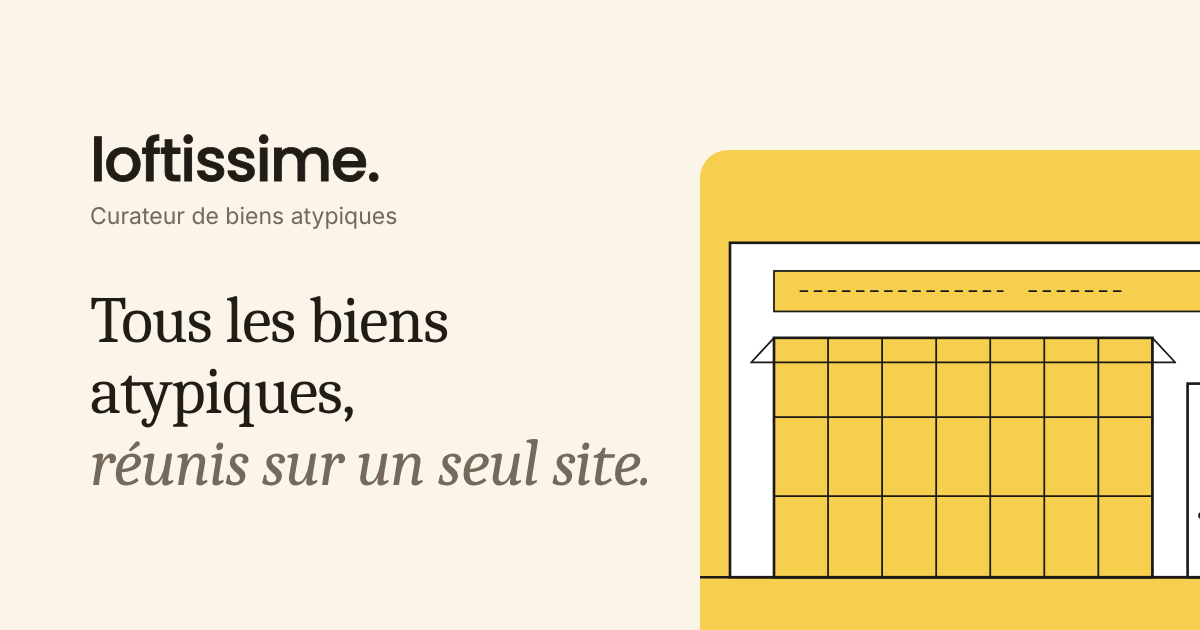
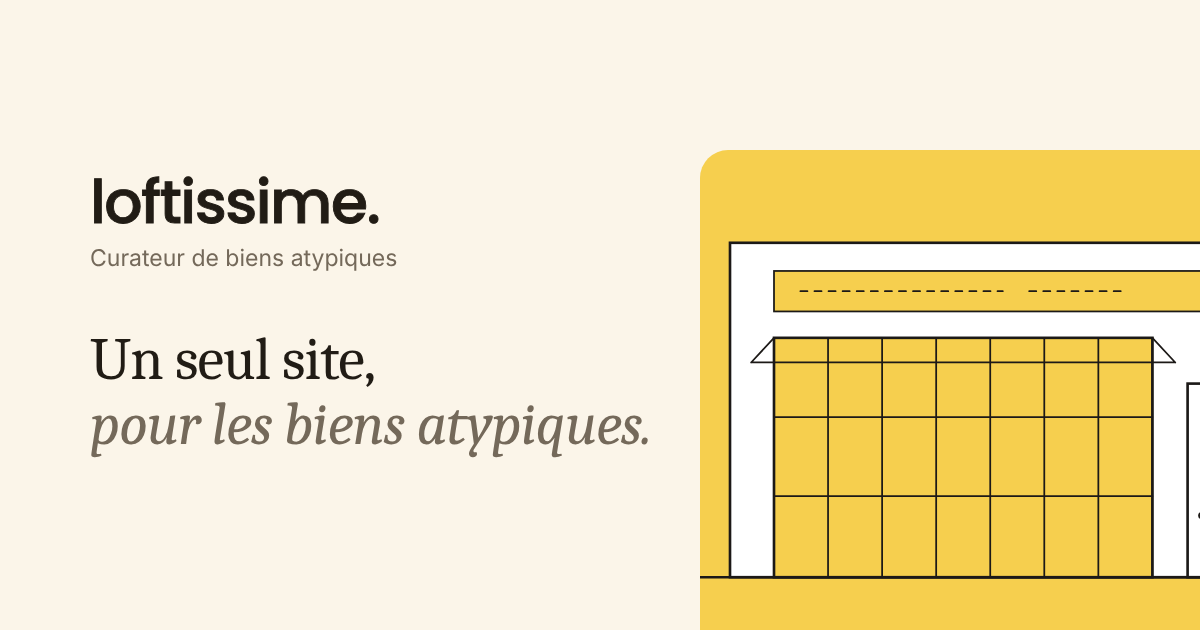
Accueil : « Un seul site, pour les biens atypiques. »
Claude-Session: https://claude.ai/code/session_015aKJiDLUy7h6cRtFn1LWuo

Changed region(s): [[0.0617, 0.4524, 0.555, 0.7841], [0.0617, 0.2111, 0.3392, 0.3619], [0.0617, 0.3921, 0.3392, 0.4222]]

diff --git a/frontend/app/HomeClient.tsx b/frontend/app/HomeClient.tsx
@@ -666,7 +666,7 @@ export default function HomeClient({ initialListings, newArticles = 0, stories =
         <div>
         <header className="pb-8 md:pb-10 text-center"><HeroTitle /></header>
         <section>
-        <div className="max-w-4xl mx-auto flex gap-2">
+        <div className="max-w-3xl mx-auto flex gap-2">
           <div className="relative flex-1">
             <Search className="w-5 h-5 absolute left-6 top-1/2 -translate-y-1/2 text-stone-500" />
             <input
@@ -773,7 +773,7 @@ export default function HomeClient({ initialListings, newArticles = 0, stories =
           </button>
         </div>
 
-        <div className="max-w-4xl mx-auto text-left" aria-live="polite">
+        <div className="max-w-3xl mx-auto text-left" aria-live="polite">
           {geo === 'denied' && (
             <p className="mt-2 text-xs text-stone-500">La localisation est refusée sur cet appareil. Saisissez une ville ou un code postal.</p>
           )}
@@ -798,7 +798,7 @@ export default function HomeClient({ initialListings, newArticles = 0, stories =
         </div>
 
         {(places.length > 0 || (searchActive && !onlyFavs)) && (
-          <div className="max-w-4xl mx-auto mt-3 flex flex-wrap items-center gap-2" aria-live="polite">
+          <div className="max-w-3xl mx-auto mt-3 flex flex-wrap items-center gap-2" aria-live="polite">
             {places.map((p) => (
               <span
                 key={p.kind + p.city + p.value}

diff --git a/frontend/app/HeroTitle.tsx b/frontend/app/HeroTitle.tsx
@@ -4,7 +4,7 @@ export default function HeroTitle() {
   return (
     <>
       <h1 className="text-[2.2rem] md:text-[3.25rem] xl:whitespace-nowrap font-serif tracking-tight text-stone-900 leading-[1.1] [text-wrap:balance]">
-        Tous les biens atypiques, <span className="italic text-stone-500">réunis sur un seul site.</span>
+        Un seul site, <span className="italic text-stone-500">pour les biens atypiques.</span>
       </h1>
       <p className="mt-4 text-base md:text-lg font-light leading-relaxed text-stone-600 [text-wrap:balance]">
         Lofts, ateliers d’artistes, toits-terrasses, biens de caractère.
